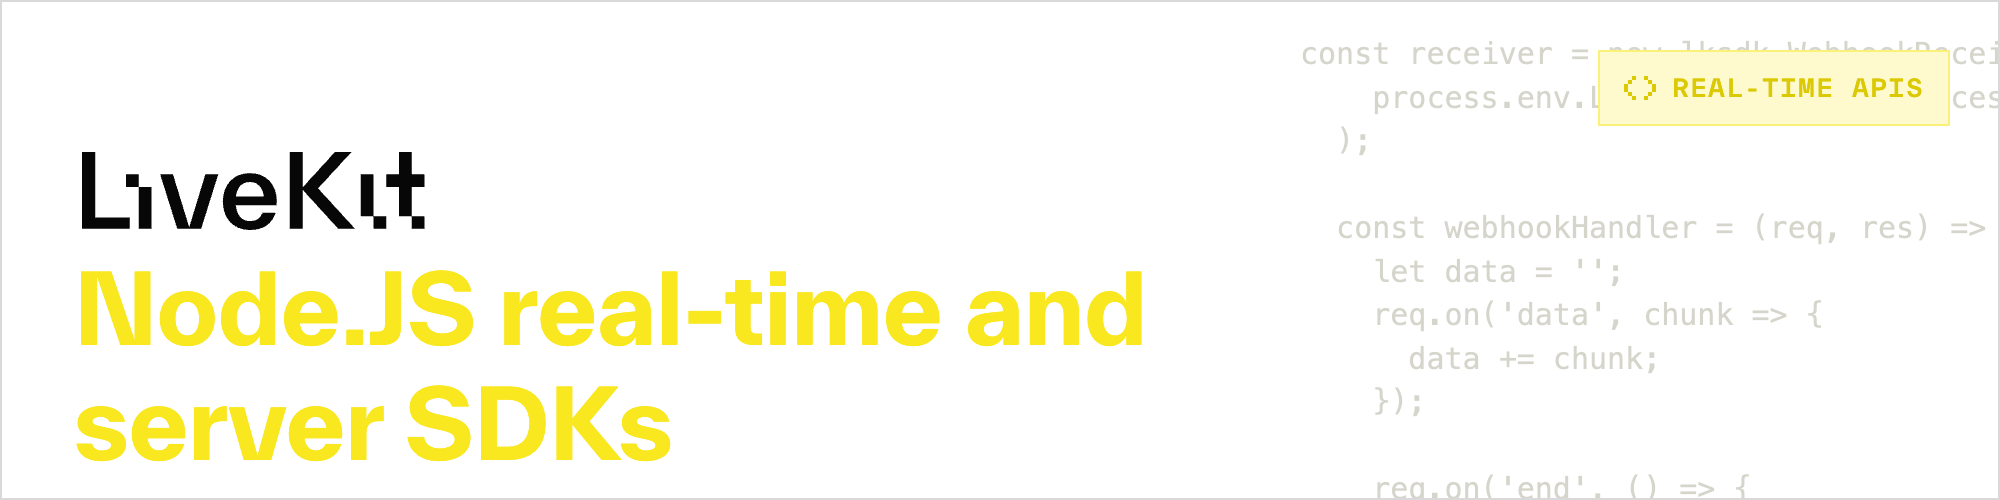
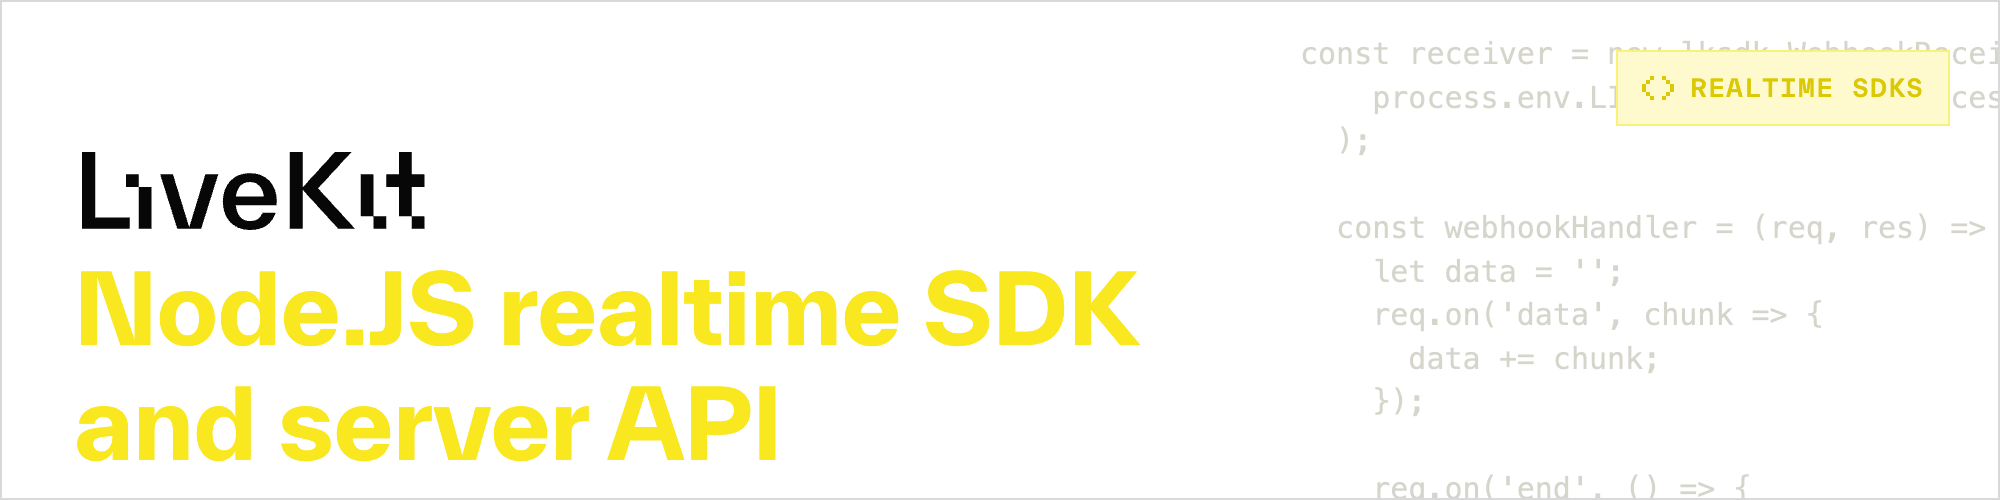
update readme (#252)

diff --git a/README.md b/README.md
@@ -19,7 +19,7 @@ SPDX-License-Identifier: Apache-2.0
 </h1>
 
 <!--BEGIN_DESCRIPTION-->
-Use this SDK to add real-time video, audio and data features to your Node app. By connecting to a self- or cloud-hosted <a href="https://livekit.io/">LiveKit</a> server, you can quickly build applications like interactive live streaming or video calls with just a few lines of code.
+Use this SDK to add realtime video, audio and data features to your Node app. By connecting to <a href="https://livekit.io/">LiveKit</a> Cloud or a self-hosted server, you can quickly build applications such as multi-modal AI, live streaming, or video calls with just a few lines of code.
 <!--END_DESCRIPTION-->
 
 ## Monorepo Navigation
@@ -64,11 +64,11 @@ After that you can use a more granular command to only rebuild the packages you 
 <br/><table>
 <thead><tr><th colspan="2">LiveKit Ecosystem</th></tr></thead>
 <tbody>
-<tr><td>Real-time SDKs</td><td><a href="https://github.com/livekit/components-js">React Components</a> · <a href="https://github.com/livekit/client-sdk-js">Browser</a> · <a href="https://github.com/livekit/client-sdk-swift">iOS/macOS</a> · <a href="https://github.com/livekit/client-sdk-android">Android</a> · <a href="https://github.com/livekit/client-sdk-flutter">Flutter</a> · <a href="https://github.com/livekit/client-sdk-react-native">React Native</a> · <a href="https://github.com/livekit/rust-sdks">Rust</a> · <b>Node.js</b> · <a href="https://github.com/livekit/python-sdks">Python</a> · <a href="https://github.com/livekit/client-sdk-unity-web">Unity (web)</a> · <a href="https://github.com/livekit/client-sdk-unity">Unity (beta)</a></td></tr><tr></tr>
+<tr><td>Realtime SDKs</td><td><a href="https://github.com/livekit/components-js">React Components</a> · <a href="https://github.com/livekit/client-sdk-js">Browser</a> · <a href="https://github.com/livekit/components-swift">Swift Components</a> · <a href="https://github.com/livekit/client-sdk-swift">iOS/macOS/visionOS</a> · <a href="https://github.com/livekit/client-sdk-android">Android</a> · <a href="https://github.com/livekit/client-sdk-flutter">Flutter</a> · <a href="https://github.com/livekit/client-sdk-react-native">React Native</a> · <a href="https://github.com/livekit/rust-sdks">Rust</a> · <b>Node.js</b> · <a href="https://github.com/livekit/python-sdks">Python</a> · <a href="https://github.com/livekit/client-sdk-unity-web">Unity (web)</a> · <a href="https://github.com/livekit/client-sdk-unity">Unity (beta)</a></td></tr><tr></tr>
 <tr><td>Server APIs</td><td><b>Node.js</b> · <a href="https://github.com/livekit/server-sdk-go">Golang</a> · <a href="https://github.com/livekit/server-sdk-ruby">Ruby</a> · <a href="https://github.com/livekit/server-sdk-kotlin">Java/Kotlin</a> · <a href="https://github.com/livekit/python-sdks">Python</a> · <a href="https://github.com/livekit/rust-sdks">Rust</a> · <a href="https://github.com/agence104/livekit-server-sdk-php">PHP (community)</a></td></tr><tr></tr>
 <tr><td>Agents Frameworks</td><td><a href="https://github.com/livekit/agents">Python</a> · <a href="https://github.com/livekit/agent-playground">Playground</a></td></tr><tr></tr>
-<tr><td>Services</td><td><a href="https://github.com/livekit/livekit">Livekit server</a> · <a href="https://github.com/livekit/egress">Egress</a> · <a href="https://github.com/livekit/ingress">Ingress</a> · <a href="https://github.com/livekit/sip">SIP</a></td></tr><tr></tr>
-<tr><td>Resources</td><td><a href="https://docs.livekit.io">Docs</a> · <a href="https://github.com/livekit-examples">Example apps</a> · <a href="https://livekit.io/cloud">Cloud</a> · <a href="https://docs.livekit.io/oss/deployment">Self-hosting</a> · <a href="https://github.com/livekit/livekit-cli">CLI</a></td></tr>
+<tr><td>Services</td><td><a href="https://github.com/livekit/livekit">LiveKit server</a> · <a href="https://github.com/livekit/egress">Egress</a> · <a href="https://github.com/livekit/ingress">Ingress</a> · <a href="https://github.com/livekit/sip">SIP</a></td></tr><tr></tr>
+<tr><td>Resources</td><td><a href="https://docs.livekit.io">Docs</a> · <a href="https://github.com/livekit-examples">Example apps</a> · <a href="https://livekit.io/cloud">Cloud</a> · <a href="https://docs.livekit.io/home/self-hosting/deployment">Self-hosting</a> · <a href="https://github.com/livekit/livekit-cli">CLI</a></td></tr>
 </tbody>
 </table>
 <!--END_REPO_NAV-->
